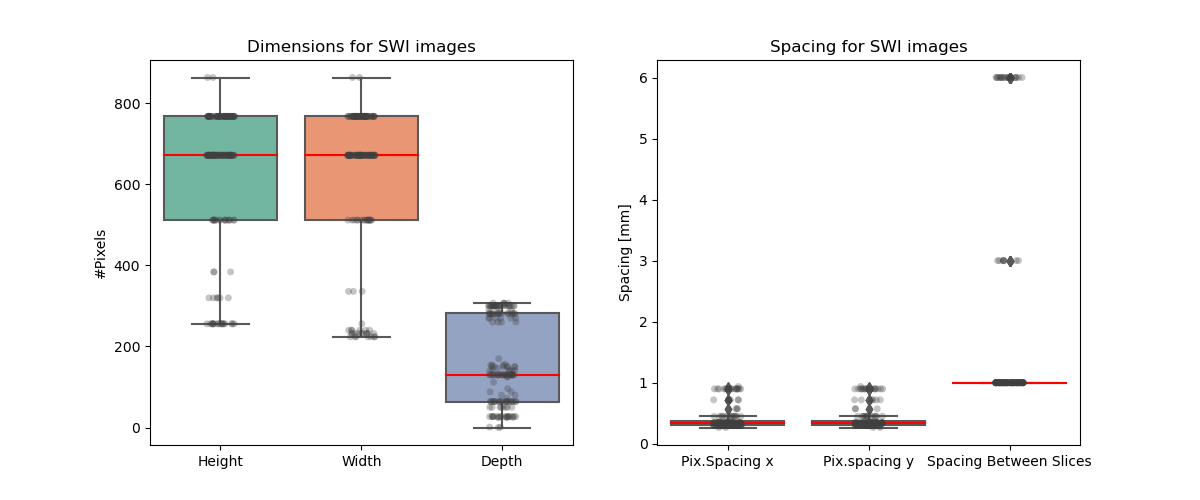
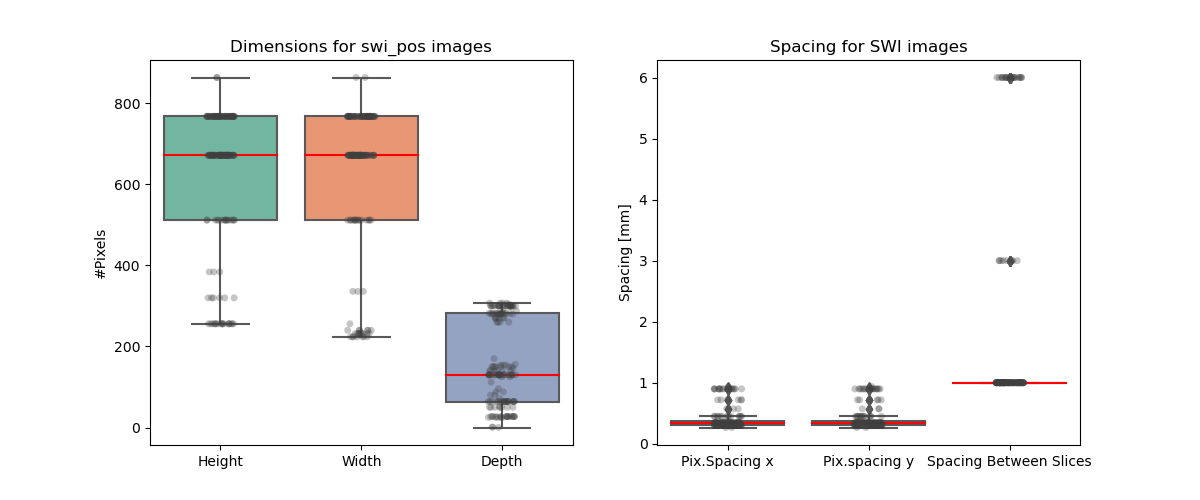
matching

diff --git a/Cobra/cobra/process_data_CMBdetection/preprocess.py b/Cobra/cobra/process_data_CMBdetection/preprocess.py
@@ -19,11 +19,13 @@ import pandas as pd
 import nibabel as nib
 import imageio
 import os
-from shutil import copy
+from shutil import copy,move
 from rich.progress import track
 from sklearn.model_selection import train_test_split
 from enum import Enum
 import xml.etree.ElementTree as ET
+from pathlib import Path
+from typing import List
 
 app = typer.Typer()
 
@@ -40,6 +42,8 @@ BOUNDING_BOX_HALF_WIDTH = 3
 BOUNDING_BOX_HALF_HEIGHT = 3
 
 # python preprocess.py preprocess-yolo '/media/neus/USB DISK/Synthetic_Cerebral_Microbleed_on_SWI_images/PublicDataShare_2020/rCMB_DefiniteSubject' /home/neus/Documents/09.UCPH/MasterThesis/DATA/prova_training_YOLO /home/neus/Documents/09.UCPH/MasterThesis/github/Thesis/Cobra/cobra/tables/SynthCMB/rCMBInformationInfo.csv 0.25 --overwrite
+# python preprocess.py preprocess-yolo '/media/neus/USB DISK/Synthetic_Cerebral_Microbleed_on_SWI_images/PublicDataShare_2020/all' /home/neus/Documents/09.UCPH/MasterThesis/DATA/prova_training_YOLO_all /home/neus/Documents/09.UCPH/MasterThesis/github/Thesis/Cobra/cobra/tables/SynthCMB/all_info.csv 0.25 --overwrite
+
 class SliceContext(str,Enum):
     average = 'average'
 
@@ -50,16 +54,18 @@ class fileExtension(str,Enum):
     png = 'png'
 
 @app.command()
-def extract_1channel_slices(input_folder: str,
-                            output_folder: str,
+def extract_1channel_slices(input_folder: List[Path],
+                            output_folder: Path,
                             slice_context: Optional[SliceContext]=typer.Option('average','--slice-context','-sc', help='Mode to take the context of a slice.'),
                             input_file_extension: Optional[fileExtension]=typer.Option('nii.gz','--input-extension','-ie', help='Extension of the input files. No other formats implemented yet.'),
                             output_file_extension: Optional[fileExtension]=typer.Option('nii.gz','--output-extension','-oe', help='Extension of the output files. No other formats implemented yet.'),
 ):
     """Extract the averaged slices from 3d niftii files."""
 
+    nifti_files = []
+    for folder in input_folder:
+        nifti_files.extend([file for file in iglob(f"{folder}/*.{input_file_extension}")])
 
-    nifti_files = [file for file in iglob(f"{input_folder}/*.{input_file_extension}")]
     for file in track(nifti_files,description='Slicing files...'):
         img_name = file.split('/')[-1][:-len(input_file_extension)-1]
         img_array,_ = load_nifti_img(file)
@@ -80,11 +86,11 @@ def extract_1channel_slices(input_folder: str,
                 imageio.imwrite(f"{output_folder}/{img_name}_slice{idx_slice}.{output_file_extension}",slice.astype(np.uint8))
             
 
-    typer.echo(f"{len(nifti_files)} 3D nifti scans converted in total.")
+    typer.echo(f"{len(nifti_files)} 3D nifti scans converted.")
 
 @app.command()
-def reformat_labels(input_labels_file:str,
-                    output_labels_folder:str,
+def reformat_labels(input_labels_file:Path,
+                    output_labels_folder:Path,
                     overwrite:bool = typer.Option(...,help='Whether to overwrite output files'),
                     input_file_extension: Optional[fileExtension]=typer.Option('nii.gz','--input-extension','-ie', help='Extension of the input files. No other formats implemented yet.'),
                     output_file_extension: Optional[fileExtension]=typer.Option('nii.gz','--output-extension','-oe', help='Extension of the output files. No other formats implemented yet.'),
@@ -115,7 +121,8 @@ def reformat_labels(input_labels_file:str,
             file_name_to_save =f'{output_labels_folder}/{file_name}_slice{z}' 
             if (labels_info.shape[0]==0):
                 #if there are no objects, write an empty file
-                open(f'{file_name_to_save}.xml',file_access_mode).close()
+                #open(f'{file_name_to_save}.xml',file_access_mode).close()
+                printing = 'no object'
             else: 
                 #if there are objects, write the labels on the file
 
@@ -131,7 +138,7 @@ def reformat_labels(input_labels_file:str,
                 annot = ET.Element('annotation')
 
                 filename = ET.SubElement(annot,'filename')
-                filename.text = file_name
+                filename.text = f'{file_name}_slice{z}.{output_file_extension}'
 
                 size = ET.SubElement(annot,'size')
                 width = ET.SubElement(size,'width')
@@ -194,9 +201,10 @@ def create_annotated_slices_YOLO(input_folder:str,
     reformat_labels(labels_file,output_folder,overwrite=overwrite,input_file_extension=input_file_extension,output_file_extension=output_file_extension)
 
 @app.command()
-def split_train_test(test_size:str,
-                    input_folder:str,
-                    output_folder:str,
+def split_train_test_val(input_folder:Path = typer.Option(...,'--input-folder','-if',exists=True,help='Folder path with the nifti images.') ,
+                    output_folder: Path = typer.Option(...,'--output-folder','-of',exists=True,help='Folder path where to save the sliced images.'),
+                    test_size: float = typer.Option(0.2,'--test-size','-ts',help='Size of the test set.'),
+                    val_size: float = typer.Option(0.1,'--val-size','-vs',help='Size of the validation set.'),
                     shuffle:Optional[bool] = typer.Option(True,help='Whether to shuffle data before splitting.'),
                     file_extension: Optional[str]=typer.Option('nii.gz',
                     '--extension',
@@ -207,10 +215,14 @@ def split_train_test(test_size:str,
     Only works for linux os."""
     
     #find paths
-    paths = np.array([[x,f'{x[:-(len(file_extension)+1)]}.xml'] for x in iglob(f'{input_folder}/*.{file_extension}')])
-    #split train and test
-    X_train,X_test,y_train,y_test = train_test_split(paths[:,0],paths[:,1],test_size=float(test_size),random_state=42,shuffle=shuffle)
+    #paths = np.array([[x,f'{x[:-(len(file_extension)+1)]}.xml'] for x in iglob(f'{input_folder}/*.{file_extension}')])
+    paths = np.array([[f'{x[:-4]}.{file_extension}',x] for x in iglob(f'{input_folder}/*.xml')])
+    #split train test and val
+    trainandtest_size = 1 - val_size
+    X_traintest,X_val,y_traintest,y_val = train_test_split(paths[:,0],paths[:,1],test_size=float(val_size),random_state=42,shuffle=shuffle)
 
+    test_size = test_size / trainandtest_size
+    X_train,X_test,y_train,y_test = train_test_split(X_traintest,y_traintest,test_size=test_size,random_state=42,shuffle=shuffle)
     #make train and test folders 
     os.system(f'mkdir {output_folder}/train')
     os.system(f'mkdir {output_folder}/train/images')
@@ -218,30 +230,40 @@ def split_train_test(test_size:str,
     os.system(f'mkdir {output_folder}/test')
     os.system(f'mkdir {output_folder}/test/images')
     os.system(f'mkdir {output_folder}/test/annotations')
+    os.system(f'mkdir {output_folder}/val')
+    os.system(f'mkdir {output_folder}/val/images')
+    os.system(f'mkdir {output_folder}/val/annotations')
 
     #copying splits to the new folder
     for i in track(range(len(X_train)),description='Spliting train and test sets...'):
-        copy(X_train[i],f'{output_folder}/train/images')
-        copy(y_train[i],f'{output_folder}/train/annotations')
+        #copying line by line
+        move(X_train[i],f'{output_folder}/train/images')
+        move(y_train[i],f'{output_folder}/train/annotations')
 
         if (i<len(X_test)): 
-            copy(X_test[i],f'{output_folder}/test/images')
-            copy(y_test[i],f'{output_folder}/test/annotations')
+            move(X_test[i],f'{output_folder}/test/images')
+            move(y_test[i],f'{output_folder}/test/annotations')
 
+        if (i<len(X_val)):
+            move(X_val[i],f'{output_folder}/val/images')
+            move(y_val[i],f'{output_folder}/val/annotations')            
     
     #saving txt files with the paths
     train_paths = [x for x in iglob(f'{output_folder}/train/images/*.{file_extension}')]
     test_paths = [x for x in iglob(f'{output_folder}/test/images/*.{file_extension}')]
+    val_paths = [x for x in iglob(f'{output_folder}/val/images/*.{file_extension}')]
     np.savetxt(f'{output_folder}/train.txt',train_paths,fmt='%s')  
     np.savetxt(f'{output_folder}/test.txt',test_paths,fmt='%s')
+    np.savetxt(f'{output_folder}/val.txt',val_paths,fmt='%s')
 
-    typer.echo(f'Information written in \n{output_folder}/train.txt\n{output_folder}/test.txt')
+    typer.echo(f'Information written in \n{output_folder}/train.txt\n{output_folder}/test.txt\n{output_folder}/val.txt')
 
 @app.command()
-def preprocess_YOLO(input_folder:str ,
-                    output_folder: str,
-                    labels_file: str, 
-                    test_size:str,
+def preprocess_YOLO(input_folder:List[Path], # = typer.Option(...,'--input-folder','-if',help='List of folders with the nifti images.') ,
+                    output_folder: Path = typer.Option(...,'--output-folder','-of',exists=True,help='Folder path where to save the sliced images.'),
+                    labels_file: Path = typer.Option(...,'--labels-file','-lf',exists=True,help='File path for the labels file.'), 
+                    test_size: float = typer.Option(0.2,'--test-size','-ts',help='Size of the test set.'),
+                    val_size: float = typer.Option(0.1,'--val-size','-vs',help='Size of the validation set.'),
                     overwrite: bool = typer.Option(...,help='Whether to overwrite output files'),
                     slice_context: Optional[SliceContext]=typer.Option('average','--slice-context','-sc', help='Mode to take the context of a slice.'),
                     input_file_extension: Optional[fileExtension]=typer.Option('nii.gz','--input-extension','-ie', help='Extension of the input files. No other formats implemented yet.'),
@@ -251,11 +273,11 @@ def preprocess_YOLO(input_folder:str ,
         Extract averaged slices from 3D nifti files and write label files for YOLO object detection."""
     
     #create a folder 
-    temp_folder = os.popen('mkdir temp_folder; cd temp_folder; pwd').read()[:-1]
+    temp_folder = os.popen("cd '/media/neus/USB DISK/'; mkdir temp_folder; cd temp_folder; pwd").read()[:-1]
 
     extract_1channel_slices(input_folder,temp_folder,slice_context=slice_context,input_file_extension=input_file_extension,output_file_extension=output_file_extension)
     reformat_labels(labels_file,temp_folder,overwrite=overwrite,input_file_extension=input_file_extension,output_file_extension=output_file_extension)
-    split_train_test(test_size=test_size,input_folder=temp_folder,output_folder=output_folder,shuffle=shuffle,file_extension=output_file_extension)
+    split_train_test_val(test_size=test_size,val_size=val_size,input_folder=temp_folder,output_folder=output_folder,shuffle=shuffle,file_extension=output_file_extension)
 
     ouput_delete_folder = os.popen('rm -r temp_folder').read()
     typer.echo(ouput_delete_folder)

diff --git a/Cobra/cobra/reading_data/general_stats_swi.py b/Cobra/cobra/reading_data/general_stats_swi.py
@@ -13,11 +13,12 @@ from utilities.utils import load_scan_csv,df_unique_values,find_n_slices,save_ns
 from stats_tools.vis import create_1d_hist,create_2d_hist,create_boxplot
 import matplotlib.pyplot as plt 
 
+label = 'swi_neg'
 
 main_folder = "/home/neus/Documents/09.UCPH/MasterThesis/github/Thesis/Cobra/cobra"
 figs_folder = f'{main_folder}/figs/cmb_stats'
 csv_folder = f"{main_folder}/tables"
-csv_file_name = "swi_pos_scans"
+csv_file_name = f"{label}_scans"
 
 swi_pos_scans =  load_scan_csv(f'{csv_folder}/{csv_file_name}.csv')
 n_scans = swi_pos_scans.shape[0]
@@ -44,8 +45,8 @@ thick_values = np.array(swi_pos_scans['SliceThickness'].dropna())
 thick_min,thick_max = -0.5,11.5
 fig,ax = plt.subplots()
 ax.set(ylabel='Counts', xlabel='Slice Thickness [mm]')
-create_1d_hist(ax,thick_values,12,(thick_min,thick_max),'Slice thickness distribution for positive SWI',display_counts=True)
-fig.savefig(f'{figs_folder}/swi_pos_sliceThickness.png')
+create_1d_hist(ax,thick_values,12,(thick_min,thick_max),f'Slice thickness distribution for {label}',display_counts=True)
+fig.savefig(f'{figs_folder}/{label}_sliceThickness.png')
 
 #Spacing between slices distribution 
 #(Spacing between slices, in mm. The spacing is measured from the center-to-center of each slice.)
@@ -53,8 +54,8 @@ spacing_values = np.array(swi_pos_scans['SpacingBetweenSlices'].dropna())
 spacing_min,spacing_max = -0.5,10.5
 fig,ax = plt.subplots()
 ax.set(ylabel='Counts', xlabel='Spacing between slices (center-to-center) [mm]')
-create_1d_hist(ax,spacing_values,11,(spacing_min,spacing_max),'Spacing between slices distribution for positive SWI',display_counts=True)
-fig.savefig(f'{figs_folder}/swi_pos_SpacingBetweenSlices.png')
+create_1d_hist(ax,spacing_values,11,(spacing_min,spacing_max),f'Spacing between slices distribution for {label}',display_counts=True)
+fig.savefig(f'{figs_folder}/{label}_SpacingBetweenSlices.png')
 
 #Uncovered space
 #(Spacing between slices - Slice thickness)
@@ -62,8 +63,8 @@ uncovered_space = (swi_pos_scans['SpacingBetweenSlices']-swi_pos_scans['SliceThi
 uncov_min,uncov_max = np.min(uncovered_space),np.max(uncovered_space)
 fig,ax = plt.subplots()
 ax.set(ylabel='Counts', xlabel='(Spacing between slices - Slice thickness) [mm]')
-create_1d_hist(ax,uncovered_space,9,(uncov_min-0.5,uncov_max+0.5),'Uncovered/Overlaped space for positive SWI',display_counts=True)
-fig.savefig(f'{figs_folder}/swi_pos_uncoveredSpce.png')
+create_1d_hist(ax,uncovered_space,9,(uncov_min-0.5,uncov_max+0.5),f'Uncovered/Overlaped space for {label}',display_counts=True)
+fig.savefig(f'{figs_folder}/{label}_uncoveredSpce.png')
 
 #Do the patients with overlap 1 mm have the same resolution
 mask = ( (swi_pos_scans['SliceThickness']>=1.5) & (swi_pos_scans['SliceThickness']<2.5) & (swi_pos_scans['SpacingBetweenSlices']>=0.5) & (swi_pos_scans['SpacingBetweenSlices']<1.5) )
@@ -82,7 +83,7 @@ y_min,y_max=np.min(px_spacing_y),np.max(px_spacing_y)
 fig,ax = plt.subplots()
 ax.set(xlabel='Row spacing [mm]', ylabel='Column spacing [mm]')
 create_2d_hist(ax,px_spacing_x,px_spacing_y,[12,12],[[0.1,1.1],[0.1,1.1]],title='Pixel spacing distribution')
-fig.savefig(f'{figs_folder}/swi_pos_pixelSpacing.png')
+fig.savefig(f'{figs_folder}/{label}_pixelSpacing.png')
 
 
 ##Magnetic field strength
@@ -90,8 +91,16 @@ b_values = np.array(swi_pos_scans['MagneticFieldStrength'].dropna())
 b_min,b_max = np.min(b_values),np.max(b_values)
 fig,ax = plt.subplots()
 ax.set(ylabel='Counts', xlabel=f'B$_0$ [T]')
-create_1d_hist(ax,b_values,4,(1.25,3.25),'Magnetic Field Strength for positive SWI',display_counts=True)
-fig.savefig(f'{figs_folder}/swi_pos_magneticFieldStrength.png')
+create_1d_hist(ax,b_values,4,(1.25,3.25),f'Magnetic Field Strength for {label}',display_counts=True)
+fig.savefig(f'{figs_folder}/{label}_magneticFieldStrength.png')
+
+##Echo time
+b_values = np.array(swi_pos_scans['EchoTime'].dropna())
+b_min,b_max = np.min(b_values),np.max(b_values)
+fig,ax = plt.subplots()
+ax.set(ylabel='Counts', xlabel=f'time [ms]')
+create_1d_hist(ax,b_values,6,(-5,55),f'Echo Time for {label}',display_counts=True)
+fig.savefig(f'{figs_folder}/{label}_echoTime.png')
 
 #Box plot for dimensions
 swi_pos_scans.drop(index=2) #No slices in the folder????
@@ -103,12 +112,12 @@ z_dim = swi_pos_scans['NumberOfSlices']
 fig,ax=plt.subplots(1,2,figsize=(12,5))
 ax = ax.flatten()
 
-ax[0] = create_boxplot(ax[0],[x_dim,y_dim,z_dim],['Height','Width','Depth'],title='Dimensions for SWI images')
+ax[0] = create_boxplot(ax[0],[x_dim,y_dim,z_dim],['Height','Width','Depth'],title=f'Dimensions for {label} images')
 ax[0].set(ylabel='#Pixels')
 
 ax[1] = create_boxplot(ax[1],[px_spacing_x,px_spacing_y,spacing_values],['Pix.Spacing x', 'Pix.spacing y', 'Spacing Between Slices'],title='Spacing for SWI images')
 ax[1].set(ylabel='Spacing [mm]')
-fig.savefig(f'{figs_folder}/swi_pos_dimensions.png')
+fig.savefig(f'{figs_folder}/{label}_dimensions.png')
 
 fig,ax=plt.subplots(2,2,figsize=(8,7),gridspec_kw={'width_ratios': [3, 1]})
 ax = ax.flatten()
@@ -125,7 +134,7 @@ ax[2].set(ylabel='Spacing [mm]')
 ax[3] = create_boxplot(ax[3],[spacing_values],['Spacing Between Slices'])
 ax[3].set(ylabel='Spacing [mm]')
 
-fig.savefig(f'{figs_folder}/swi_pos_dimensions_v2.png')
+fig.savefig(f'{figs_folder}/{label}_dimensions_v2.png')
 
 #plt.show()
 

diff --git a/Cobra/cobra/process_data_CMBdetection/hard_matching.py b/Cobra/cobra/process_data_CMBdetection/hard_matching.py
@@ -1,0 +1,59 @@
+# -*- coding: utf-8 -*-
+"""
+Created on Mon Nov  15 12:06:00 2021
+
+@author: neusRodeja
+"""
+import sys
+sys.path.insert(0, '/home/neus/Documents/09.UCPH/MasterThesis/github/Thesis/Cobra/cobra/')
+
+import numpy as np
+import pandas as pd 
+from utilities.utils import load_scan_csv,df_unique_values,find_n_slices,save_nscans
+from stats_tools.vis import create_1d_hist,create_2d_hist,create_boxplot
+import matplotlib.pyplot as plt 
+
+
+#set matching parameters
+categorical_matching_features = ['EchoTime','MagneticFieldStrength','SliceThickness']
+
+#read tablespos
+main_folder = "/home/neus/Documents/09.UCPH/MasterThesis/github/Thesis/Cobra/cobra"
+tables_path = f'{main_folder}/tables'
+pos_scan_info = pd.read_csv(f'{tables_path}/swi_pos_scans.csv')
+neg_scan_info = pd.read_csv(f'{tables_path}/swi_neg_scans.csv')
+
+#Create table to save info
+matching_table = pd.DataFrame(columns=['ControlPatientID','CasePatientID'])
+controls_per_case = []
+#Hard matching
+for idx,pos_scan in pos_scan_info.iterrows():
+    case_id = pos_scan['PatientID']    
+    matched_controls = neg_scan_info
+    for feature in categorical_matching_features:
+        matched_controls = matched_controls[ neg_scan_info[feature]==pos_scan[feature] ]
+    
+    controls_per_case.append(matched_controls.shape[0])
+    matching = pd.DataFrame({'ControlPatientID': matched_controls['PatientID'],
+                            'CasePatientID': case_id})
+    matching_table = pd.concat([matching_table,matching])
+
+#Save tables. 
+folder_to_save = f'{tables_path}/SWIMatching/'
+matching_table.sort_values('CasePatientID')
+matching_table.to_csv(f'{folder_to_save}/swi_matched_control_case.csv',index=False)
+
+#save into small tables
+parts = np.array_split(matching_table,12)
+for idx,part in enumerate(parts):
+    part.to_csv(f'{folder_to_save}/swi_matched_control_case_{idx}.csv',index=False)
+
+min_cpc,max_cpc,avg_cpc = np.min(controls_per_case),np.max(controls_per_case),np.average(controls_per_case)
+print('*****************************************************')
+print(f'CONTROLS PER CASE\nMin: {min_cpc:d}\tMax: {max_cpc:d}\tAverage: {avg_cpc:.3f}')
+
+controls_per_case = np.array(controls_per_case)
+print(f'N. case patients with no controls: {len(controls_per_case[controls_per_case<1])}')
+
+print(f'N.cases before matching: {pos_scan_info.shape[0]} \t N.cases after matching: {matching_table["CasePatientID"].unique().shape[0]}')
+print('*****************************************************')

diff --git a/Cobra/cobra/process_data_CMBdetection/debug.py b/Cobra/cobra/process_data_CMBdetection/debug.py
@@ -1,0 +1,7 @@
+
+import os
+
+command = "python preprocess.py preprocess-yolo -if '/media/neus/USB DISK/Synthetic_Cerebral_Microbleed_on_SWI_images/PublicDataShare_2020/rCMB_DefiniteSubject' -of /home/neus/Documents/09.UCPH/MasterThesis/DATA/prova_training_YOLO -lf /home/neus/Documents/09.UCPH/MasterThesis/github/Thesis/Cobra/cobra/tables/SynthCMB/rCMBInformationInfo.csv -ts 0.20 -vs 0.10 --overwrite"
+command = "python preprocess.py preprocess-yolo '/media/neus/USB DISK/Synthetic_Cerebral_Microbleed_on_SWI_images/PublicDataShare_2020/NoCMBSubject' '/media/neus/USB DISK/Synthetic_Cerebral_Microbleed_on_SWI_images/PublicDataShare_2020/rCMB_DefiniteSubject' 'Synthetic_Cerebral_Microbleed_on_SWI_images/PublicDataShare_2020/sCMB_DefiniteSubject' '/media/neus/USB DISK/Synthetic_Cerebral_Microbleed_on_SWI_images/PublicDataShare_2020/sCMB_NoCMBSubject' -of '/media/neus/USB DISK/prova_training_YOLO' -lf /home/neus/Documents/09.UCPH/MasterThesis/github/Thesis/Cobra/cobra/tables/SynthCMB/all_info.csv -ts 0.20 -vs 0.10 --overwrite"
+
+os.system(f'cd process_data_CMBdetection; {command}') 

diff --git a/Cobra/cobra/reading_data/select_swi_patients.py b/Cobra/cobra/reading_data/select_swi_patients.py
@@ -13,11 +13,11 @@ from utilities.utils import load_scan_csv,df_unique_values,find_n_slices,save_ns
 from stats_tools.vis import create_1d_hist,create_2d_hist,create_boxplot
 import matplotlib.pyplot as plt 
 
-
+label = 'swi_pos'
 main_folder = "/home/neus/Documents/09.UCPH/MasterThesis/github/Thesis/Cobra/cobra"
 figs_folder = f'{main_folder}/figs/cmb_stats'
 csv_folder = f"{main_folder}/tables"
-csv_swi_file_name = "swi_pos_scans"
+csv_swi_file_name = f"{label}_scans"
 csv_file_name = "neg_pos_clean"
 
 table_all = load_scan_csv(f'{csv_folder}/{csv_file_name}.csv')
@@ -61,6 +61,6 @@ swi_pos_scans.dropna(subset=column_subset)
 swi_pos_scans = save_nscans(swi_pos_scans,f'{csv_folder}/{csv_swi_file_name}.csv')
 
 #Save extra files to send to computerome
-swi_pos_scans['PatientID'].to_csv(f'{csv_folder}/swi_pos_patientIds.csv')
-swi_pos_scans['DateTime'].to_csv(f'{csv_folder}/swi_pos_dateTime.csv')
+swi_pos_scans['PatientID'].to_csv(f'{csv_folder}/{label}_patientIds.csv')
+swi_pos_scans['DateTime'].to_csv(f'{csv_folder}/{label}_dateTime.csv')
 

diff --git a/Cobra/cobra/others/other_calculations.py b/Cobra/cobra/others/other_calculations.py
@@ -67,8 +67,8 @@ print(f'For >=50 y.o. population\n# CMBs = \t({cmbs_number_mean_50:.2f}+\-{cmbs_
 
 power = 0.8
 significance = 0.05
-P = 1/4
-N = 150
+P = 1/3
+N = 124
 std_number = 0.5
 mde_number = get_MDE(std_number,N,power,significance,P)
 std_volume = 27
